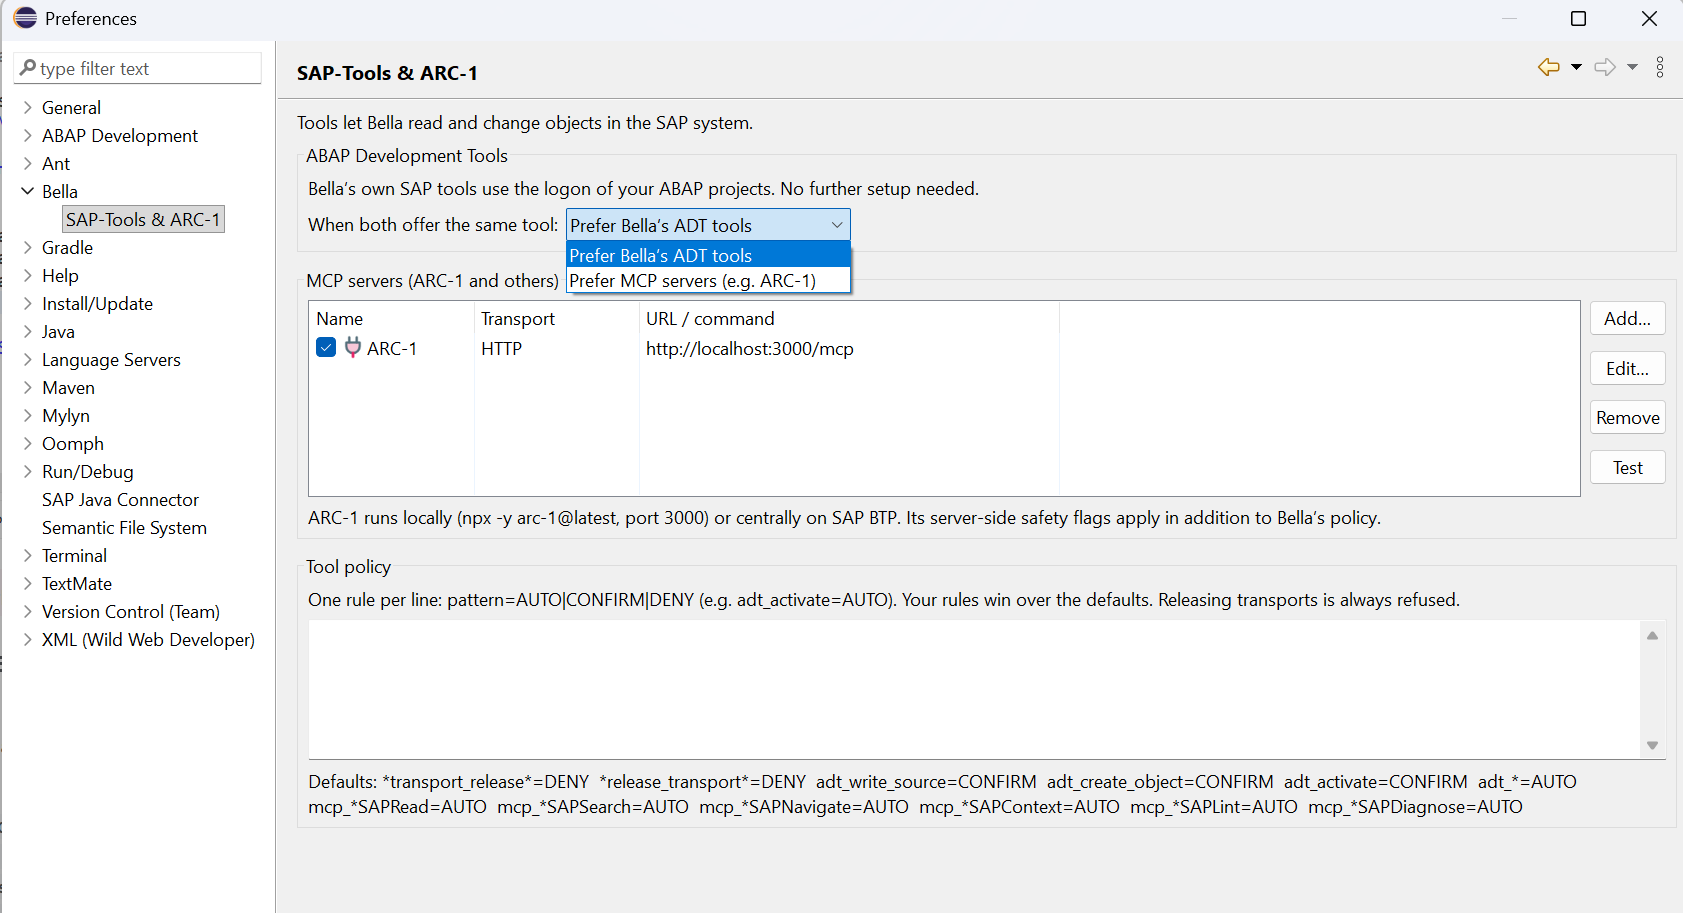
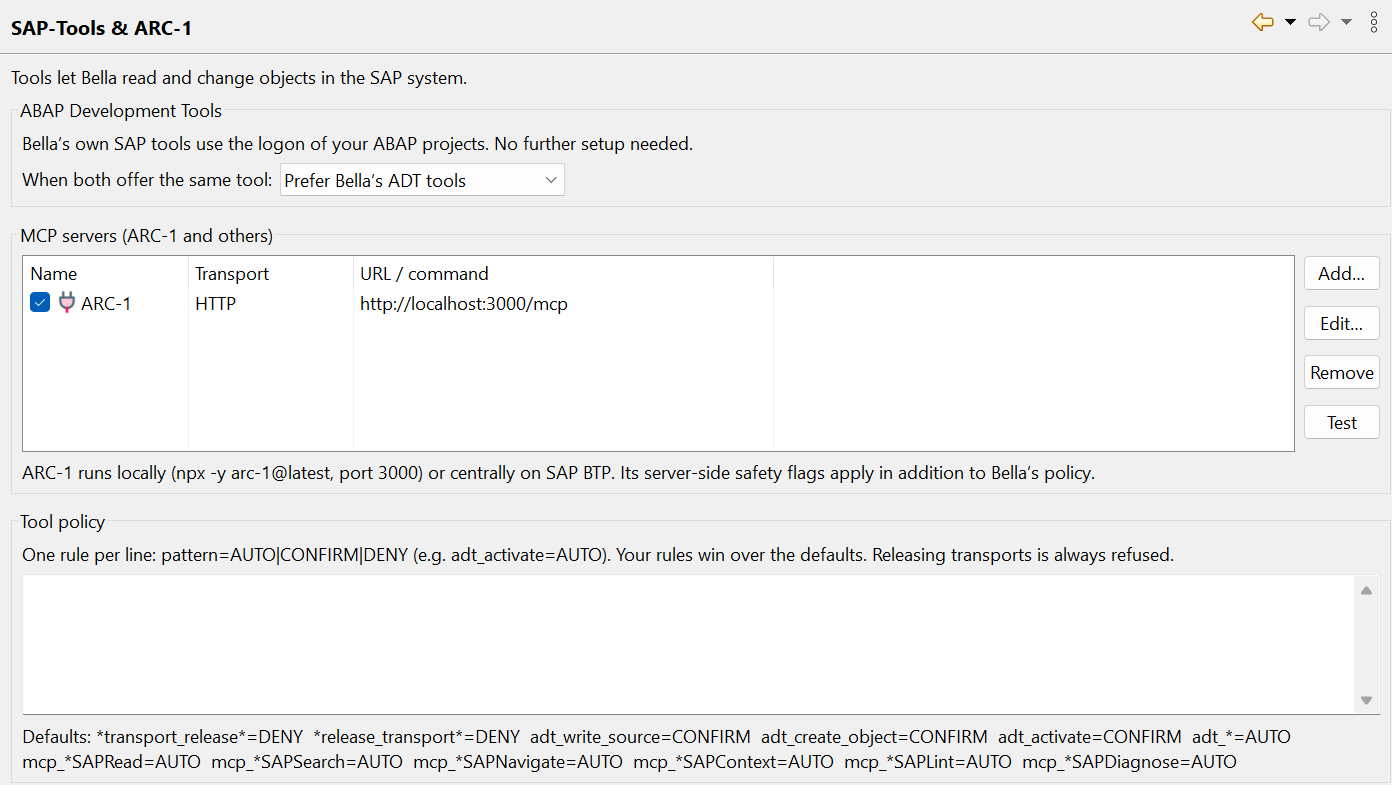
README: screenshots of the context menu and the main preferences page
The Windows user name in the claude path is pixelated.

Claude-Session: https://claude.ai/code/session_01NWpsYybQ8b2HaWLL2hW7GM

diff --git a/README.md b/README.md
@@ -26,6 +26,8 @@ Bella reaches the SAP system through your existing ADT logon. ARC-1 or any other
 | <img src="bundles/de.kiliantaubmann.bella.ui/icons/bella.png"> | **Chat** with editor context, streaming and tool calls; insert code blocks, replace the selection or take them over as a method body | `Ctrl+Alt+B`, pink B in the toolbar, menu *Bella* |
 | <img src="bundles/de.kiliantaubmann.bella.ui/icons/tool.png"> | **SAP tools**: search, read, where-used, syntax check (also for unsaved code), ABAP Unit, ATC, write, create, activate | automatically in the chat |
 
+<p align="center"><img src="docs/screenshots/context-menu.png" width="560" alt="Right-click in the ABAP editor: submenu Bella with its actions"></p>
+
 **Changing shortcuts:** *Preferences → General → Keys*, filter for "Bella". `Ctrl+↑` only applies in editors Bella is attached to and replaces "Scroll Line Up" there. Bella does not use `Ctrl+Alt+Space`, because the Claude desktop app takes it for its quick entry on Windows.
 
 <table>
@@ -91,6 +93,8 @@ For an update, install the new ZIP the same way. *Check for Updates* does not fi
 ## Setup
 
 *Window → Preferences → Bella*
+
+<p align="center"><img src="docs/screenshots/preferences-provider.png" width="760" alt="Bella preferences with the provider drop-down and the Claude subscription settings"></p>
 
 - **Provider** (drop-down at the top): *Claude (API key)*, *Claude subscription (Claude Code CLI)* or *OpenAI-compatible*. The page only shows the fields of the selected provider, plus a note on code completion.
 - **Claude (API key)**:
